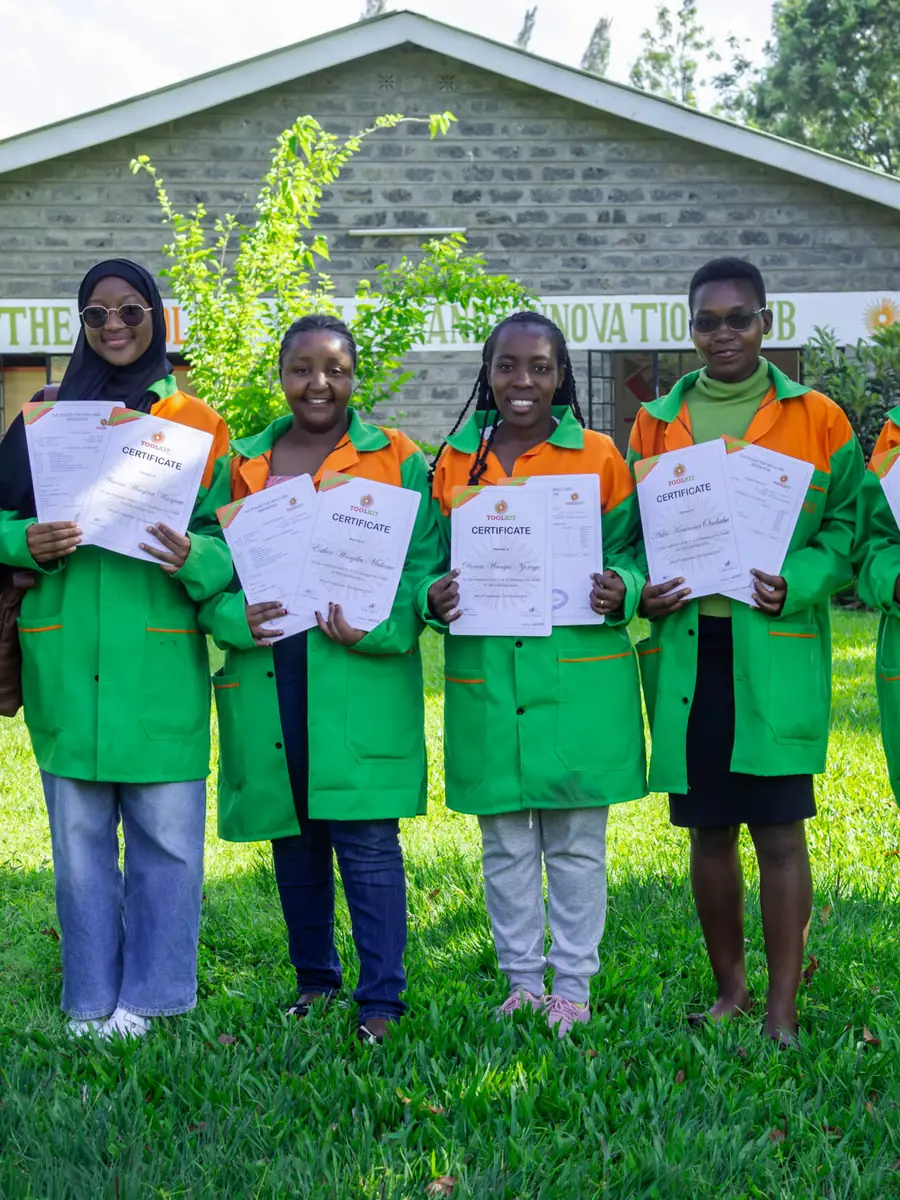
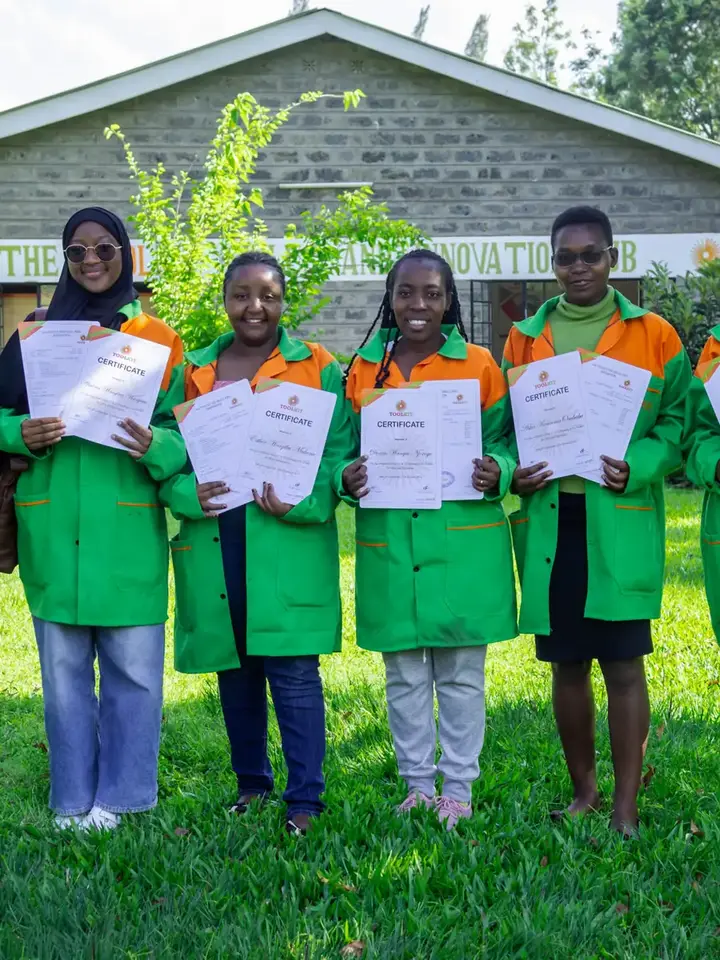
perf(seo): stabilize homepage mobile LCP

Changed region(s): [[0.9472, 0.6562, 1.0, 0.6875], [0.3056, 0.2188, 0.3361, 0.25], [0.275, 0.25, 0.3056, 0.2812]]

diff --git a/wp-content/themes/eduma-child/hero-slider.js b/wp-content/themes/eduma-child/hero-slider.js
@@ -24,6 +24,39 @@
   var isPaused = false;
   var interval = null;
   var autoplayDelay = 6000;
+  var autoplayMedia = window.matchMedia('(min-width: 768px)');
+  var reducedMotion = window.matchMedia('(prefers-reduced-motion: reduce)');
+
+  function prepareSlide(index, callback) {
+    var slide = slides[index];
+    var image = slide ? slide.querySelector('.hero-slider__image') : null;
+    var sources = slide ? slide.querySelectorAll('source[data-srcset]') : [];
+    var pendingSource = image ? image.getAttribute('data-src') : '';
+
+    for (var s = 0; s < sources.length; s++) {
+      sources[s].setAttribute('srcset', sources[s].getAttribute('data-srcset'));
+      sources[s].removeAttribute('data-srcset');
+    }
+
+    if (!image || !pendingSource) {
+      callback();
+      return;
+    }
+
+    var settled = false;
+    var finish = function () {
+      if (settled) return;
+      settled = true;
+      image.removeEventListener('load', finish);
+      image.removeEventListener('error', finish);
+      callback();
+    };
+    image.addEventListener('load', finish);
+    image.addEventListener('error', finish);
+    image.setAttribute('src', pendingSource);
+    image.removeAttribute('data-src');
+    if (image.complete) window.setTimeout(finish, 0);
+  }
 
   function updateSlide(index) {
     if (isAnimating) return;
@@ -56,7 +89,7 @@
     if (isAnimating) return;
     if (index < 0) index = slideCount - 1;
     if (index >= slideCount) index = 0;
-    updateSlide(index);
+    prepareSlide(index, function () { updateSlide(index); });
   }
 
   function nextSlide() {
@@ -69,7 +102,7 @@
 
   function startAutoplay() {
     if (interval) clearInterval(interval);
-    if (isPaused) return;
+    if (isPaused || !autoplayMedia.matches || reducedMotion.matches || slideCount < 2) return;
     interval = setInterval(nextSlide, autoplayDelay);
   }
 
@@ -139,6 +172,13 @@
   slider.addEventListener('focusout', function () {
     if (!isPaused) startAutoplay();
   });
+
+  var handleAutoplayPreference = function () {
+    if (autoplayMedia.matches && !reducedMotion.matches && !isPaused) startAutoplay();
+    else stopAutoplay();
+  };
+  if (autoplayMedia.addEventListener) autoplayMedia.addEventListener('change', handleAutoplayPreference);
+  if (reducedMotion.addEventListener) reducedMotion.addEventListener('change', handleAutoplayPreference);
 
   /* Keyboard */
   slider.addEventListener('keydown', function (e) {
@@ -243,6 +283,7 @@
     });
   }
 
-  /* Start */
-  startAutoplay();
+  /* Wait until the initial document and LCP image have settled before autoplay. */
+  if (document.readyState === 'complete') startAutoplay();
+  else window.addEventListener('load', startAutoplay, { once: true });
 })();

diff --git a/wp-content/themes/eduma-child/hero-slider.css b/wp-content/themes/eduma-child/hero-slider.css
@@ -16,22 +16,26 @@
 }
 
 .hero-slider__slide {
-	background-image: var(--hero-image);
   position: absolute;
   inset: 0;
-  background-size: cover;
-  background-position: center;
-  background-repeat: no-repeat;
   opacity: 0;
   transition: opacity 700ms cubic-bezier(0.4, 0, 0.2, 1), transform 700ms cubic-bezier(0.4, 0, 0.2, 1);
   transform: scale(1);
   will-change: transform, opacity;
 }
 
-@media (max-width: 767px) {
-	.hero-slider__slide {
-		background-image: var(--hero-image-mobile);
-	}
+.hero-slider__media,
+.hero-slider__image {
+  position: absolute;
+  inset: 0;
+  display: block;
+  width: 100%;
+  height: 100%;
+}
+
+.hero-slider__image {
+  object-fit: cover;
+  object-position: center;
 }
 
 .hero-slider__slide.is-active {
@@ -560,6 +564,10 @@
   .hero-slider__content {
     transition: opacity 150ms ease !important;
   }
+
+  .hero-slider__pause {
+    display: none;
+  }
 }
 
 /* Responsive */
@@ -587,6 +595,10 @@
 }
 
 @media (max-width: 767px) {
+	.hero-slider__pause {
+		display: none;
+	}
+
   .hero-slider {
     height: 100vh;
     min-height: 520px;

diff --git a/wp-content/themes/eduma-child/style.css b/wp-content/themes/eduma-child/style.css
@@ -2126,9 +2126,7 @@ body.home .elementor-element-81bf8ec .sina-banner-slider {
   justify-content: center;
   padding: 28px 24px;
   border-radius: var(--brand-border-radius, 6px);
-  background:
-    linear-gradient(rgba(247, 247, 247, 0.9), rgba(247, 247, 247, 0.9)),
-    url("/wp-content/uploads/2023/09/iskill-banner-04.jpg") center/cover no-repeat;
+  background: #f7f7f7;
   box-shadow: 0 1px 6px rgba(0, 0, 0, 0.06);
 }
 

diff --git a/wp-content/themes/eduma-child/inc/hero-slides.php b/wp-content/themes/eduma-child/inc/hero-slides.php
@@ -7,6 +7,10 @@ function eduma_child_get_hero_slides() {
 		array(
 			'image'         => $assets . 'hero-slide-1.webp',
 			'image_mobile'  => $assets . 'hero-slide-1-mobile.webp',
+			'image_width'   => 1920,
+			'image_height'  => 1440,
+			'mobile_width'  => 720,
+			'mobile_height' => 960,
 			'eyebrow'       => 'THE TOOLKIT FOR SKILLS AND INNOVATION',
 			'heading'       => "Empowering Africa Through<br>Skills, Innovation & Leadership",
 			'description'   => 'Equipping young Africans with hands-on skills and entrepreneurial mindset to create sustainable communities and global impact.',
@@ -16,6 +20,10 @@ function eduma_child_get_hero_slides() {
 		array(
 			'image'         => $assets . 'hero-slide-2.webp',
 			'image_mobile'  => $assets . 'hero-slide-2-mobile.webp',
+			'image_width'   => 1920,
+			'image_height'  => 1282,
+			'mobile_width'  => 720,
+			'mobile_height' => 960,
 			'eyebrow'       => 'HANDS-ON TRAINING',
 			'heading'       => "Build Real-World Skills<br>for Tomorrow's Economy",
 			'description'   => 'From welding to renewable energy, our courses blend theory with practical experience in modern workshops.',
@@ -25,6 +33,10 @@ function eduma_child_get_hero_slides() {
 		array(
 			'image'         => $assets . 'hero-slide-3.webp',
 			'image_mobile'  => $assets . 'hero-slide-3-mobile.webp',
+			'image_width'   => 1920,
+			'image_height'  => 1282,
+			'mobile_width'  => 720,
+			'mobile_height' => 960,
 			'eyebrow'       => 'COMMUNITY & IMPACT',
 			'heading'       => "Building Sustainable Communities<br>Across Africa Together",
 			'description'   => 'Join a movement of young leaders driving change through innovation, entrepreneurship, and technical excellence.',

diff --git a/wp-content/themes/eduma-child/front-page.php b/wp-content/themes/eduma-child/front-page.php
@@ -24,8 +24,20 @@ $slides = eduma_child_get_hero_slides();
 			 aria-roledescription="slide"
 			 aria-label="Slide <?php echo esc_attr( $slide_num ); ?> of <?php echo count( $slides ); ?>"
 			 aria-hidden="<?php echo $is_first ? 'false' : 'true'; ?>"
-			 data-slide="<?php echo esc_attr( $slide_num ); ?>"
-			 style="--hero-image: url('<?php echo esc_url( $slide['image'] ); ?>'); --hero-image-mobile: url('<?php echo esc_url( $slide['image_mobile'] ); ?>');">
+			 data-slide="<?php echo esc_attr( $slide_num ); ?>">
+			<picture class="hero-slider__media" aria-hidden="true">
+				<source media="(max-width: 767px)"
+					<?php echo $is_first ? 'srcset="' . esc_url( $slide['image_mobile'] ) . '"' : 'data-srcset="' . esc_url( $slide['image_mobile'] ) . '"'; ?>
+					width="<?php echo esc_attr( $slide['mobile_width'] ); ?>"
+					height="<?php echo esc_attr( $slide['mobile_height'] ); ?>">
+				<img class="hero-slider__image"
+					<?php echo $is_first ? 'src="' . esc_url( $slide['image'] ) . '"' : 'data-src="' . esc_url( $slide['image'] ) . '"'; ?>
+					width="<?php echo esc_attr( $slide['image_width'] ); ?>"
+					height="<?php echo esc_attr( $slide['image_height'] ); ?>"
+					alt=""
+					decoding="async"
+					<?php echo $is_first ? 'fetchpriority="high"' : ''; ?>>
+			</picture>
 			<div class="hero-slider__overlay"></div>
 			<div class="hero-slider__content">
 				<span class="hero-slider__eyebrow"><?php echo esc_html( $slide['eyebrow'] ); ?></span>

diff --git a/wp-content/themes/eduma-child/functions.php b/wp-content/themes/eduma-child/functions.php
@@ -24,7 +24,7 @@ function toolkit_editorial_story_preview() {
  * URLs and triggers one server-side object/page-cache purge per environment.
  */
 function toolkit_theme_release() {
-	return '2026.09.15.2';
+	return '2026.09.16.1';
 }
 
 function toolkit_is_demo_environment() {
@@ -1792,6 +1792,10 @@ add_action( 'wp_enqueue_scripts', function() {
 		'sina-widgets',
 		'inf-font-awesome',
 		'owl-carousel',
+		'thim-font-icon',
+		'flaticon',
+		'font-pe-icon-7',
+		'ionicons',
 		'bdpp-public-style',
 		'lvca-animate-styles',
 		'lvca-frontend-styles',
@@ -1907,7 +1911,7 @@ add_action( 'wp_footer', function() {
 		return;
 	}
 
-	foreach ( array( 'thim-ekit-frontend', 'thim-ekit-widgets', 'elementor-webpack-runtime', 'elementor-frontend-modules', 'elementor-frontend', 'swiper', 'wp-api-fetch', 'wp-url', 'wp-hooks', 'wp-i18n' ) as $handle ) {
+	foreach ( array( 'thim-ekit-frontend', 'thim-ekit-widgets', 'elementor-webpack-runtime', 'elementor-frontend-modules', 'elementor-frontend', 'swiper', 'wp-api-fetch', 'wp-url', 'wp-hooks', 'wp-i18n', 'jquery-owl', 'sina-tooltip', 'sina-widgets' ) as $handle ) {
 		wp_dequeue_script( $handle );
 	}
 }, 19 );

diff --git a/docs/seo/SEO-FIXES-2026-09-15.md b/docs/seo/SEO-FIXES-2026-09-15.md
@@ -35,6 +35,40 @@ These scores are retained as a regression benchmark, not treated as Google ranki
 
 Three failures should not be “fixed” merely to increase the score: Toolkit already uses first-party measurement instead of Google Analytics; a visible admissions email is intentional; and ads.txt is unnecessary unless Toolkit sells programmatic advertising. The modern-image result also omitted the offending URLs even though the homepage already serves WebP hero assets, so it needs resource-level verification.
 
+## Homepage performance follow-up — 16 September 2026
+
+A throttled mobile browser trace against production reproduced the slow hero more precisely than the external snapshot. It recorded a `441 ms` TTFB, `2.95 s` DOMContentLoaded, `6.56 s` load event, `0.0086` CLS and an `8.40 s` LCP. The low observed CLS means the earlier `0.4735` result is not consistently reproducible; the LCP regression was reproducible and had an identifiable cause.
+
+The carousel changed from slide one to slide two before the slow mobile trace settled. That made slide two the final LCP element and caused all three mobile hero backgrounds to transfer. The trace also found a `260,811` byte decorative `iskill-banner-04.jpg`, three legacy icon stylesheets, and late Sina carousel/tooltip scripts even though the rebuilt homepage renders none of the corresponding legacy widgets.
+
+Release `2026.09.16.1` therefore:
+
+- renders the hero as responsive `<picture>`/`<img>` media with explicit dimensions and high priority only on the first image;
+- keeps later slide URLs in inert data attributes until the slide is requested;
+- disables autoplay on mobile and for reduced-motion users, while retaining manual navigation;
+- recompresses the three mobile hero images from `400,016` to `278,126` bytes in total;
+- removes the low-value 260 KB Quick Links background; and
+- dequeues unused legacy icon assets and late Sina scripts on rebuilt surfaces.
+
+A sandboxed mobile fixture verified that slide one remains the LCP candidate with zero fixture CLS, later slides remain without `src` after the autoplay interval, the mobile pause control is absent, and manual navigation still hydrates and activates the requested slide. Production performance is unchanged until this release passes demo review and is deployed.
+
+## Yoast review status
+
+The latest retained authenticated dashboard snapshot, from 13 August 2026, showed one post with a Good SEO score and 157 published posts not analysed. Readability showed six Good, five OK, three needing improvement and 144 not analysed. The post list also reported 148 orphaned posts, zero cornerstone posts and no stale cornerstone posts. These are editorial-workflow indicators, not a reason to bulk-save every legacy post or force all checks green.
+
+The useful Yoast queue is:
+
+1. Confirm **Tools → Optimize SEO data** has completed before trusting the orphaned-content and link-counter reports; run it against a backed-up demo database first.
+2. Mark only the true hubs as cornerstone content after their facts and intent are approved, beginning with the welding hub rather than dozens of news posts.
+3. Analyse and improve the priority commercial pages plus the strongest welding evidence articles first.
+4. Reduce the orphaned count with contextual links from relevant stories and hubs; do not create site-wide keyword links.
+5. Confirm Yoast Site Representation is set to Organisation with the canonical name, logo and owned social profiles.
+6. Keep Yoast's Schema Framework, XML sitemaps and Open Graph output enabled and keep Yoast as the sole owner of those outputs; the public welding page already passes that check.
+7. Keep exactly one `llms.txt` owner. The child theme currently serves Toolkit's reviewed version, so Yoast's separate `llms.txt` generator must not overwrite or conflict with it.
+8. Treat focus-keyphrase and readability lights as editorial prompts. Neither is itself a Google ranking signal.
+
+The saved WordPress login had expired on 16 September, so current dashboard counts and Site Representation settings still require a human-authenticated admin review. No credentials were entered or retrieved.
+
 ## Current verified state
 
 | Area | July finding | September finding | Verified 15 Sep | Disposition |

diff --git a/WORKLOG.md b/WORKLOG.md
@@ -5,6 +5,33 @@ change itself. Format and rules: see `../AGENTS.md` §1.
 
 ---
 
+## 2026-09-16 — Remove the reproduced mobile hero LCP bottleneck
+**Area:** website SEO · homepage performance · Yoast review
+**Environments:** local ✅ · not deployed
+**Commit(s):** this commit
+
+Reproduced the homepage slowdown with a throttled mobile trace and found that
+carousel autoplay replaced the preloaded first hero with slide two before LCP
+settled. The homepage now renders an explicit responsive hero image, defers later
+slides until requested, disables mobile/reduced-motion autoplay, removes a 260 KB
+decorative background and unused legacy assets, and reduces the combined mobile
+hero files from 400,016 to 278,126 bytes without changing the visible copy.
+
+Documented the retained Yoast dashboard baseline and a priority recommendation
+queue. The current admin review could not be completed because the saved login
+had expired; no credential was entered or retrieved.
+
+**Verified by:** PHP lint on `functions.php`, `front-page.php` and
+`inc/hero-slides.php`; `node --check` on `hero-slider.js`; image-dimension and
+size checks; `git diff --check`; and a sandboxed mobile browser fixture that kept
+slide one active with zero fixture CLS, left slides two and three without `src`,
+and loaded the requested slide successfully through manual navigation.
+**Follow-ups:** deploy to demo, visually compare desktop/mobile, run a fresh
+public trace, then deploy to production if accepted; complete the current Yoast
+Site Representation and content-score review after a human signs into wp-admin.
+
+---
+
 ## 2026-09-15 — Connect welding evidence articles to the course hub
 **Area:** website SEO · internal linking · welding content
 **Environments:** local ✅ · not deployed
